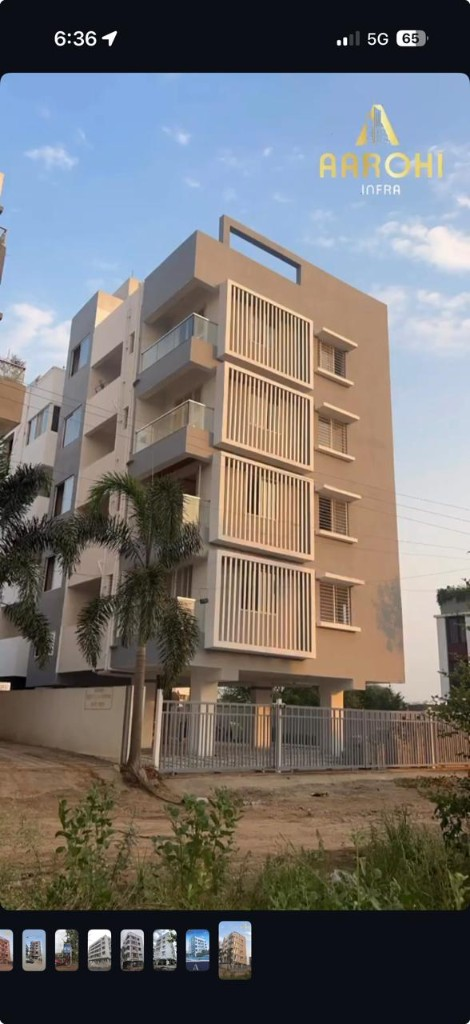
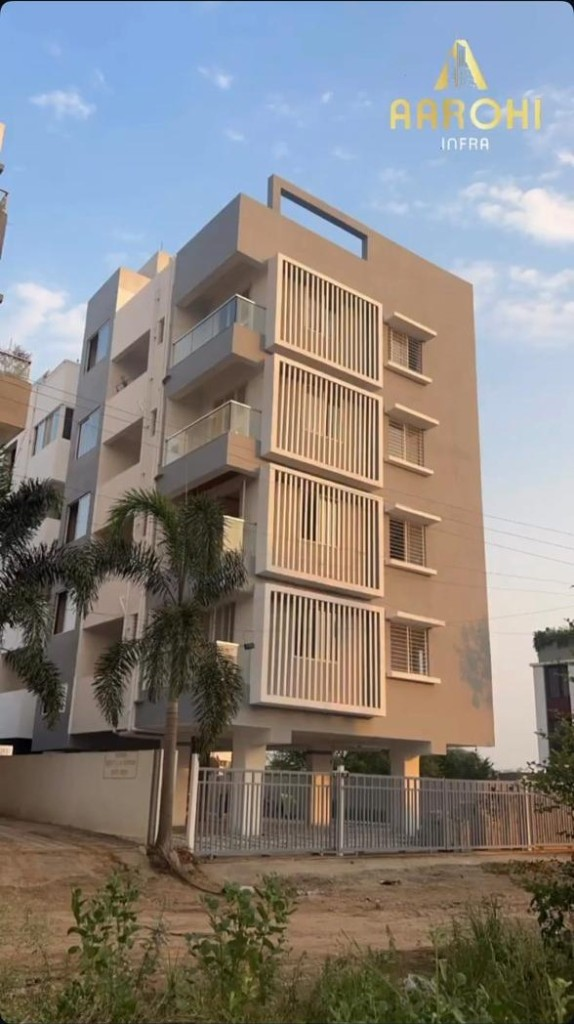
Replace Samarth Bliss, Samarth Crown, and Hitesh Shewale photos

diff --git a/index.html b/index.html
@@ -11,14 +11,14 @@
   <link rel="preconnect" href="https://fonts.googleapis.com" />
   <link rel="preconnect" href="https://fonts.gstatic.com" crossorigin />
   <link href="https://fonts.googleapis.com/css2?family=Montserrat:wght@300;400;500;600;700;800&family=Cormorant+Garamond:ital,wght@0,500;0,600;1,500&display=swap" rel="stylesheet" />
-  <link rel="stylesheet" href="style.css?v=27" />
+  <link rel="stylesheet" href="style.css?v=28" />
 </head>
 <body>
   <div class="scroll-progress" aria-hidden="true"><span></span></div>
   <header class="site-header">
     <a href="#home" class="logo">
       <span class="logo-frame">
-        <img src="assets/logo.png?v=26" alt="AAROHI Infra" class="logo-img" />
+        <img src="assets/logo.png?v=28" alt="AAROHI Infra" class="logo-img" />
       </span>
     </a>
 
@@ -61,7 +61,7 @@
 
       <div class="cover-brand" data-parallax="0.07" data-mouse-parallax="12">
         <div class="brand-frame">
-          <img src="assets/logo.png?v=26" alt="AAROHI Infra — Building The Future, Restoring The Past" class="brand-logo" />
+          <img src="assets/logo.png?v=28" alt="AAROHI Infra — Building The Future, Restoring The Past" class="brand-logo" />
         </div>
       </div>
 
@@ -147,7 +147,7 @@
           <article class="team-card">
             <div class="team-photo-wrap">
               <div class="team-photo passport-photo" aria-label="Passport photo for Ameya Jadhav">
-                <img src="assets/team/ameya-jadhav.jpg?v=26" alt="Ameya Jadhav" width="350" height="450" loading="lazy" />
+                <img src="assets/team/ameya-jadhav.jpg?v=28" alt="Ameya Jadhav" width="350" height="450" loading="lazy" />
               </div>
             </div>
             <div class="team-meta">
@@ -158,7 +158,7 @@
           <article class="team-card">
             <div class="team-photo-wrap">
               <div class="team-photo passport-photo" aria-label="Passport photo for Rohan Pathak">
-                <img src="assets/team/rohan-pathak.png?v=26" alt="Rohan Pathak" width="350" height="450" loading="lazy" />
+                <img src="assets/team/rohan-pathak.png?v=28" alt="Rohan Pathak" width="350" height="450" loading="lazy" />
               </div>
             </div>
             <div class="team-meta">
@@ -169,7 +169,7 @@
           <article class="team-card">
             <div class="team-photo-wrap">
               <div class="team-photo passport-photo" aria-label="Passport photo for Hitesh Shewale">
-                <img src="assets/team/hitesh-shewale.jpg?v=26" alt="Hitesh Shewale" width="350" height="450" loading="lazy" />
+                <img src="assets/team/hitesh-shewale.jpg?v=28" alt="Hitesh Shewale" width="350" height="450" loading="lazy" />
               </div>
             </div>
             <div class="team-meta">
@@ -271,7 +271,7 @@
               </a>
               <a href="#proj-bliss" class="project-card">
                 <div class="project-thumb">
-                  <img src="assets/projects/samarth-bliss.png?v=26" alt="Samarth Bliss residential building" loading="lazy" />
+                  <img src="assets/projects/samarth-bliss.png?v=28" alt="Samarth Bliss residential building" loading="lazy" />
                 </div>
                 <div class="project-card-text">
                   <h3>Samarth Bliss</h3>
@@ -280,7 +280,7 @@
               </a>
               <a href="#proj-crown" class="project-card">
                 <div class="project-thumb">
-                  <img src="assets/projects/samarth-crown.png?v=26" alt="Samarth Crown residential building" loading="lazy" />
+                  <img src="assets/projects/samarth-crown.png?v=28" alt="Samarth Crown residential building" loading="lazy" />
                 </div>
                 <div class="project-card-text">
                   <h3>Samarth Crown</h3>
@@ -443,7 +443,7 @@
         </div>
         <div class="project-feature motion-stagger">
           <figure class="project-feature-photo motion-item">
-            <img src="assets/projects/samarth-bliss.png?v=26" alt="Samarth Bliss residential building by Aarohi Infra" loading="lazy" />
+            <img src="assets/projects/samarth-bliss.png?v=28" alt="Samarth Bliss residential building by Aarohi Infra" loading="lazy" />
           </figure>
           <div class="project-feature-details project-feature-details--single">
             <div class="project-feature-stat motion-item">
@@ -461,7 +461,7 @@
         </div>
         <div class="project-feature motion-stagger">
           <figure class="project-feature-photo project-feature-photo--crown motion-item">
-            <img src="assets/projects/samarth-crown.png?v=26" alt="Samarth Crown residential building by Aarohi Infra" loading="lazy" />
+            <img src="assets/projects/samarth-crown.png?v=28" alt="Samarth Crown residential building by Aarohi Infra" loading="lazy" />
           </figure>
           <div class="project-feature-details project-feature-details--single">
             <div class="project-feature-stat motion-item">
